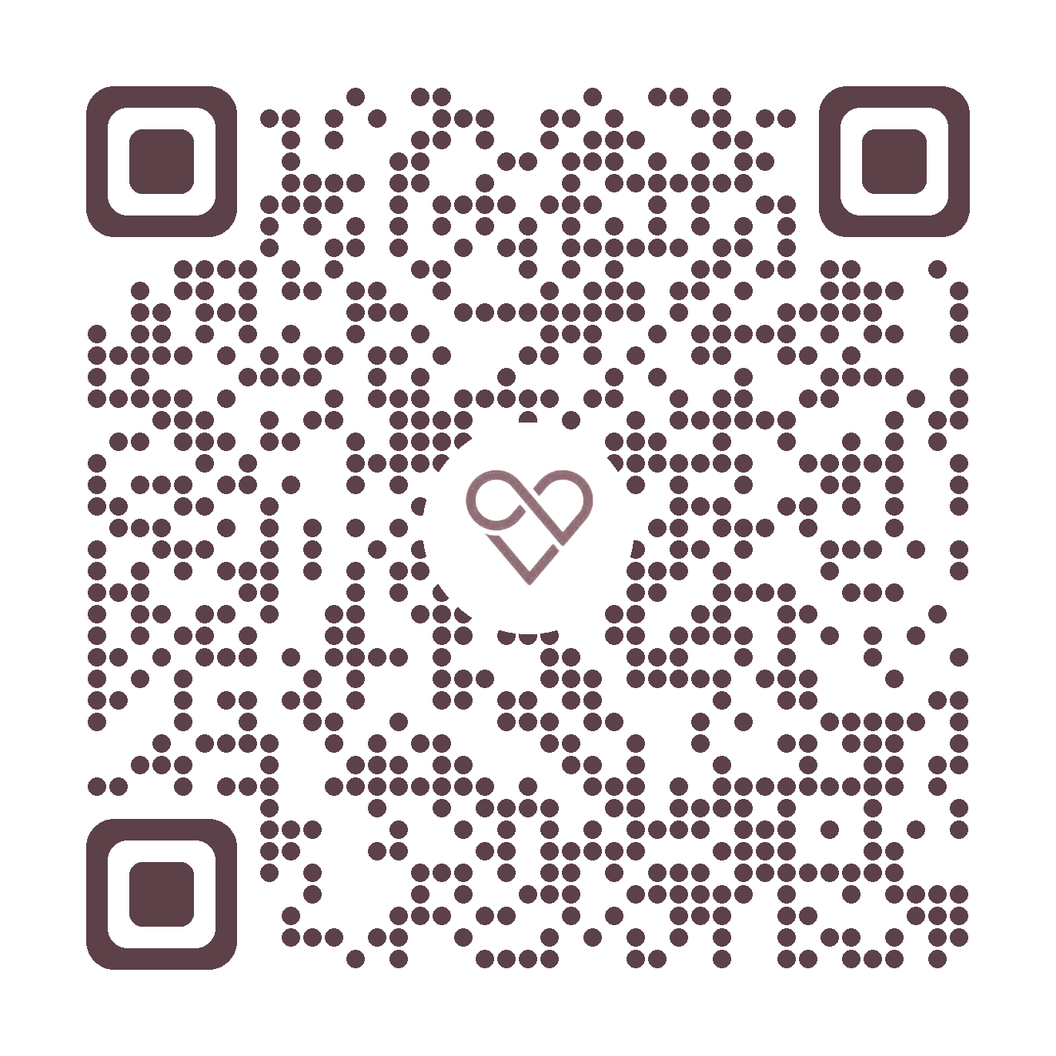
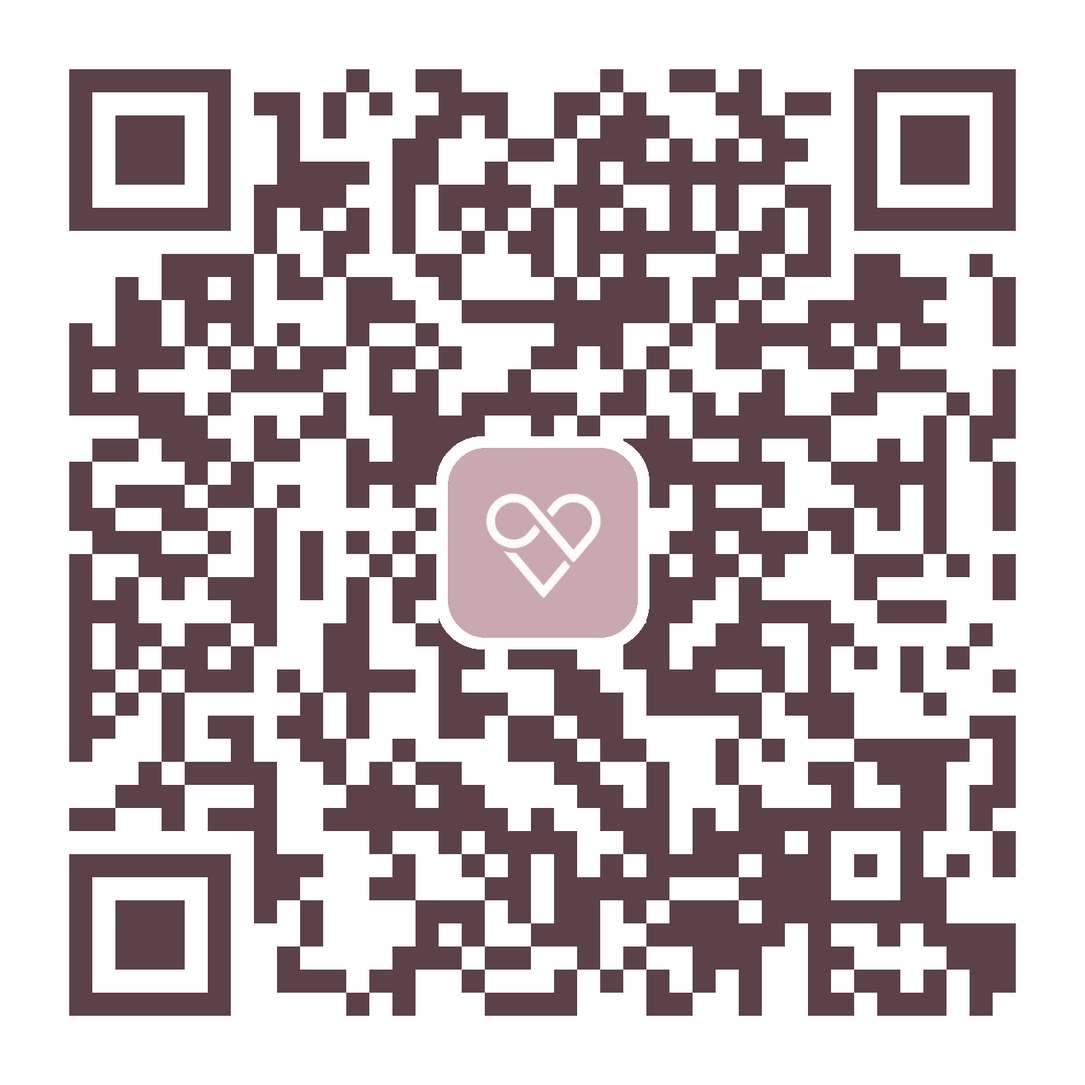
Extra chairs pending hotel, TBC duplicate names, open ceremony seating, map pin, Mahassajan QR card
Claude-Session: https://claude.ai/code/session_01Ktinj4NGZiYfzhAotGD2iB

diff --git a/data.js b/data.js
@@ -1,2 +1,2 @@
 /* ข้อมูลแขก Adriana & Non — สร้างจาก Seating Wedding 15 November 2026 2.xlsx (งานเลี้ยง) และ seat.xlsx (พิธี) */
-window.SEAT_DATA = {"tables": [{"id": "Z1-1", "zone": "1", "label": "แถว 1", "left": [1, 2, 3, 4, 5, 6, 7, 8, 9, 10, 11, 12], "right": [13, 14, 15, 16, 17, 18, 19, 20, 21, 22, 23, 24], "cap": 24}, {"id": "Z1-2", "zone": "1", "label": "แถว 2", "left": [25, 26, 27, 28, 29, 30, 31, 32, 33, 34, 35, 36, 37, 38, 39], "right": [40, 41, 42, 43, 44, 45, 46, 47, 48, 49, 50, 51, 52, 53, 54], "cap": 30}, {"id": "Z1-3", "zone": "1", "label": "แถว 3", "left": [55, 56, 57, 58, 59, 60, 61, 62, 63, 64, 65, 66, 67, 68, 69, 70, 71, 72], "right": [73, 74, 75, 76, 77, 78, 79, 80, 81, 82, 83, 84, 85, 86, 87, 88, 89, 90], "cap": 36}, {"id": "Z2-A", "zone": "2", "label": "โต๊ะที่นั่ง 109–120", "left": [115, 116, 117, 118, 119, 120], "right": [109, 110, 111, 112, 113, 114], "cap": 12}, {"id": "Z2-B", "zone": "2", "label": "โต๊ะที่นั่ง 103–108", "left": [106, 107, 108], "right": [103, 104, 105], "cap": 6}, {"id": "Z2-C", "zone": "2", "label": "โต๊ะที่นั่ง 97–102", "left": [100, 101, 102], "right": [97, 98, 99], "cap": 6}, {"id": "Z2-D", "zone": "2", "label": "โต๊ะที่นั่ง 91–96", "left": [94, 95, 96], "right": [91, 92, 93], "cap": 6}, {"id": "Z3-A", "zone": "3", "label": "โต๊ะที่นั่ง 121–126", "left": [121, 122, 123], "right": [124, 125, 126], "cap": 6}, {"id": "Z3-B", "zone": "3", "label": "โต๊ะที่นั่ง 127–138", "left": [127, 128, 129, 130, 131, 132], "right": [133, 134, 135, 136, 137, 138], "cap": 12}, {"id": "Z3-C", "zone": "3", "label": "โต๊ะที่นั่ง 139–150", "left": [139, 140, 141, 142, 143, 144], "right": [145, 146, 147, 148, 149, 150], "cap": 12}, {"id": "Z3-D", "zone": "3", "label": "โต๊ะที่นั่ง 151–156", "left": [151, 152, 153], "right": [154, 155, 156], "cap": 6}], "guests": [{"name": "Roberto Echevarria", "table": "Z1-1", "seats": [1], "alias": [], "cer": "L06"}, {"name": "Mayra Agosto", "table": "Z1-1", "seats": [2], "alias": [], "cer": "L05"}, {"name": "Genesis Rosa", "table": "Z1-1", "seats": [3], "alias": [], "cer": "L12"}, {"name": "Elia Collazos", "table": "Z1-1", "seats": [4], "alias": [], "cer": "L08"}, {"name": "Aylin Imasuen", "table": "Z1-1", "seats": [5], "alias": [], "cer": "L07"}, {"name": "Kirani Aziza", "table": "Z1-1", "seats": [6], "alias": ["Kirani"], "cer": "L15"}, {"name": "David Phan", "table": "Z1-1", "seats": [7], "alias": [], "cer": "L09"}, {"name": "Gabriele Urbaite", "table": "Z1-1", "seats": [8], "alias": ["Gabriele"], "cer": "L18"}, {"name": "Edgaras Peciulevicius", "table": "Z1-1", "seats": [9], "alias": ["Edgaras"], "cer": "L17"}, {"name": "ฮีล", "table": "Z1-1", "seats": [10], "alias": [], "cer": null}, {"name": "มิ้น", "table": "Z1-1", "seats": [11], "alias": [], "cer": null}, {"name": "กิ้ว", "table": "Z1-1", "seats": [12], "alias": [], "cer": null}, {"name": "Alejandro Echevarria", "table": "Z1-1", "seats": [13], "alias": ["Alejandro"], "cer": "L04"}, {"name": "Cindy", "table": "Z1-1", "seats": [14], "alias": [], "cer": "L03"}, {"name": "Jessica Telemaco", "table": "Z1-1", "seats": [15], "alias": [], "cer": "L01"}, {"name": "Celina Telemaco", "table": "Z1-1", "seats": [16], "alias": [], "cer": "L02"}, {"name": "Sendi Limon-Davalos", "table": "Z1-1", "seats": [17], "alias": ["Sendi"], "cer": "L16"}, {"name": "Monica Ortega", "table": "Z1-1", "seats": [18], "alias": [], "cer": "L10"}, {"name": "Leighanne Katz", "table": "Z1-1", "seats": [19], "alias": [], "cer": "L11"}, {"name": "นัท", "table": "Z1-1", "seats": [20], "alias": [], "cer": null}, {"name": "แฟนนัท", "table": "Z1-1", "seats": [21], "alias": [], "cer": null}, {"name": "ฟ้า", "table": "Z1-1", "seats": [22], "alias": [], "cer": null}, {"name": "เตย", "table": "Z1-1", "seats": [23], "alias": [], "cer": null}, {"name": "พี่นัท (เตย)", "table": "Z1-1", "seats": [24], "alias": [], "cer": null}, {"name": "พ่อนิพัฒน์", "table": "Z1-2", "seats": [25], "alias": ["นิพัฒน์ ยังรอด"], "cer": "R01"}, {"name": "แม่ปนัดดา", "table": "Z1-2", "seats": [26], "alias": ["ปนัดดา ยังรอด"], "cer": "R02"}, {"name": "น้านุช", "table": "Z1-2", "seats": [27], "alias": [], "cer": "R13"}, {"name": "น้าลื่น", "table": "Z1-2", "seats": [28], "alias": [], "cer": "R14"}, {"name": "กร", "table": "Z1-2", "seats": [29], "alias": [], "cer": "R17"}, {"name": "ของขวัญ", "table": "Z1-2", "seats": [30], "alias": [], "cer": "R18"}, {"name": "ก้อง", "table": "Z1-2", "seats": [31], "alias": [], "cer": "R19"}, {"name": "มุก", "table": "Z1-2", "seats": [32], "alias": [], "cer": "R20"}, {"name": "กี้", "table": "Z1-2", "seats": [33], "alias": [], "cer": "L24"}, {"name": "บุง", "table": "Z1-2", "seats": [34], "alias": [], "cer": null}, {"name": "ท๊อป", "table": "Z1-2", "seats": [35], "alias": [], "cer": null}, {"name": "หน่า", "table": "Z1-2", "seats": [36], "alias": [], "cer": null}, {"name": "นิ้ง", "table": "Z1-2", "seats": [37], "alias": [], "cer": null}, {"name": "ไช้", "table": "Z1-2", "seats": [38], "alias": [], "cer": null}, {"name": "ปัน", "table": "Z1-2", "seats": [39], "alias": [], "cer": null}, {"name": "พี่เม็ดนุ่น", "table": "Z1-2", "seats": [40], "alias": ["พี่นุ่น"], "cer": "R03"}, {"name": "พี่เล้ง", "table": "Z1-2", "seats": [41], "alias": [], "cer": "R05"}, {"name": "นลิล", "table": "Z1-2", "seats": [42], "alias": [], "cer": "R04"}, {"name": "เนล่า", "table": "Z1-2", "seats": [43], "alias": [], "cer": null}, {"name": "Pavida Wanna", "table": "Z1-2", "seats": [44], "alias": [], "cer": null}, {"name": "โด่ง", "table": "Z1-2", "seats": [45], "alias": [], "cer": "R16"}, {"name": "อารุ่น", "table": "Z1-2", "seats": [46], "alias": [], "cer": null}, {"name": "ปุ้น", "table": "Z1-2", "seats": [47], "alias": [], "cer": null}, {"name": "ปู่รงค์", "table": "Z1-2", "seats": [48], "alias": [], "cer": null}, {"name": "ย่าเล็ก", "table": "Z1-2", "seats": [49], "alias": [], "cer": null}, {"name": "นัท", "table": "Z1-2", "seats": [50], "alias": [], "cer": null}, {"name": "พี่ไบรท์", "table": "Z1-2", "seats": [51], "alias": [], "cer": null}, {"name": "หน่อย", "table": "Z1-2", "seats": [52], "alias": [], "cer": null}, {"name": "ออสติน", "table": "Z1-2", "seats": [53], "alias": [], "cer": null}, {"name": "นภัส", "table": "Z1-2", "seats": [54], "alias": [], "cer": "R07"}, {"name": "ต้น", "table": "Z1-3", "seats": [55], "alias": [], "cer": null}, {"name": "มะปราง", "table": "Z1-3", "seats": [56], "alias": [], "cer": null}, {"name": "เป้อ", "table": "Z1-3", "seats": [57], "alias": [], "cer": null}, {"name": "เก่ง", "table": "Z1-3", "seats": [58], "alias": [], "cer": null}, {"name": "แฟนเก่ง", "table": "Z1-3", "seats": [59], "alias": [], "cer": null}, {"name": "นู", "table": "Z1-3", "seats": [60], "alias": [], "cer": "R08"}, {"name": "กิฟ", "table": "Z1-3", "seats": [61], "alias": [], "cer": "R11"}, {"name": "เจเจ", "table": "Z1-3", "seats": [62], "alias": [], "cer": null}, {"name": "แฟนเจเจ", "table": "Z1-3", "seats": [63], "alias": [], "cer": null}, {"name": "พี", "table": "Z1-3", "seats": [64], "alias": [], "cer": null}, {"name": "โอ๋", "table": "Z1-3", "seats": [65], "alias": [], "cer": null}, {"name": "ไมค์", "table": "Z1-3", "seats": [66], "alias": [], "cer": null}, {"name": "ไอซ์ (ไมค์)", "table": "Z1-3", "seats": [67], "alias": [], "cer": null}, {"name": "พี่กุ๊ก (พี่มิก)", "table": "Z1-3", "seats": [68], "alias": [], "cer": null}, {"name": "พี่มิก", "table": "Z1-3", "seats": [69], "alias": [], "cer": null}, {"name": "โอ็ต", "table": "Z1-3", "seats": [70], "alias": [], "cer": null}, {"name": "เก๋ (โอ็ต)", "table": "Z1-3", "seats": [71], "alias": [], "cer": null}, {"name": "Aung Thet", "table": "Z1-3", "seats": [72], "alias": ["Aung"], "cer": "L21"}, {"name": "ภูมิ", "table": "Z1-3", "seats": [73], "alias": [], "cer": "R09"}, {"name": "เกต", "table": "Z1-3", "seats": [74], "alias": [], "cer": "R12"}, {"name": "พี่บูม", "table": "Z1-3", "seats": [75], "alias": [], "cer": null}, {"name": "พี่แบงค์", "table": "Z1-3", "seats": [76], "alias": [], "cer": null}, {"name": "โอ็ต", "table": "Z1-3", "seats": [77], "alias": [], "cer": null}, {"name": "พี่กัน", "table": "Z1-3", "seats": [78], "alias": [], "cer": null}, {"name": "พี่บูม (แพร)", "table": "Z1-3", "seats": [79], "alias": [], "cer": null}, {"name": "แพร", "table": "Z1-3", "seats": [80], "alias": [], "cer": null}, {"name": "พี่กิฟ", "table": "Z1-3", "seats": [81], "alias": [], "cer": null}, {"name": "ว่าน", "table": "Z1-3", "seats": [82], "alias": [], "cer": null}, {"name": "กรร", "table": "Z1-3", "seats": [83], "alias": [], "cer": null}, {"name": "พีท", "table": "Z1-3", "seats": [84], "alias": [], "cer": null}, {"name": "พี่แอน", "table": "Z1-3", "seats": [85], "alias": [], "cer": null}, {"name": "พี่มิ้ว", "table": "Z1-3", "seats": [86], "alias": [], "cer": null}, {"name": "แฟนพี่เมย์", "table": "Z1-3", "seats": [87], "alias": [], "cer": null}, {"name": "พี่เมย์", "table": "Z1-3", "seats": [88], "alias": [], "cer": null}, {"name": "Jack Huang", "table": "Z1-3", "seats": [89], "alias": ["jack Huang"], "cer": "L23"}, {"name": "Jessica Huang", "table": "Z1-3", "seats": [90], "alias": [], "cer": "L22"}, {"name": "ลุงเกรียง", "table": "Z2-A", "seats": [115], "alias": [], "cer": null}, {"name": "ป้าอ้อย", "table": "Z2-A", "seats": [116], "alias": [], "cer": null}, {"name": "อาร์ม", "table": "Z2-A", "seats": [117], "alias": [], "cer": null}, {"name": "น้าอ๋อย", "table": "Z2-A", "seats": [118], "alias": [], "cer": null}, {"name": "น้าปู้", "table": "Z2-A", "seats": [119], "alias": [], "cer": null}, {"name": "ป้าอ้วน", "table": "Z2-A", "seats": [109], "alias": [], "cer": null}, {"name": "น้าฑล", "table": "Z2-A", "seats": [110], "alias": [], "cer": null}, {"name": "พี่วัฒน์", "table": "Z2-A", "seats": [111], "alias": [], "cer": null}, {"name": "แม่ปาล์ม", "table": "Z2-A", "seats": [112], "alias": [], "cer": null}, {"name": "ปาล์ม", "table": "Z2-A", "seats": [113], "alias": [], "cer": null}, {"name": "เมย์", "table": "Z2-A", "seats": [114], "alias": [], "cer": null}, {"name": "บ้านกันตจินดา", "table": "Z2-B", "seats": [103, 104, 106, 107, 108], "alias": [], "cer": null}, {"name": "น้าปา", "table": "Z2-C", "seats": [100], "alias": [], "cer": null}, {"name": "กัสจัง", "table": "Z2-C", "seats": [101], "alias": [], "cer": null}, {"name": "น้าเอ๋", "table": "Z2-C", "seats": [102], "alias": [], "cer": null}, {"name": "น้าอุ๊", "table": "Z2-C", "seats": [97], "alias": [], "cer": "R21"}, {"name": "โหย๋", "table": "Z2-C", "seats": [98], "alias": ["โย๋"], "cer": "R22"}, {"name": "อ๋อง", "table": "Z2-C", "seats": [99], "alias": [], "cer": "R23"}, {"name": "เอิท", "table": "Z2-D", "seats": [94], "alias": [], "cer": null}, {"name": "เจนนี่", "table": "Z2-D", "seats": [95], "alias": [], "cer": null}, {"name": "ใบตอง", "table": "Z2-D", "seats": [96], "alias": [], "cer": null}, {"name": "ฝน", "table": "Z2-D", "seats": [91], "alias": [], "cer": null}, {"name": "สามีฝน", "table": "Z2-D", "seats": [92], "alias": [], "cer": null}, {"name": "นิส", "table": "Z2-D", "seats": [93], "alias": [], "cer": null}, {"name": "น้าเก๋", "table": "Z3-A", "seats": [121], "alias": [], "cer": null}, {"name": "มิฐฐา", "table": "Z3-A", "seats": [122], "alias": [], "cer": null}, {"name": "กล้า", "table": "Z3-A", "seats": [123], "alias": [], "cer": null}, {"name": "ยายน้อย", "table": "Z3-A", "seats": [124], "alias": [], "cer": null}, {"name": "ยายแอร์", "table": "Z3-A", "seats": [125], "alias": [], "cer": null}, {"name": "อิ้ง", "table": "Z3-A", "seats": [126], "alias": [], "cer": null}, {"name": "บ้านอีน้อง", "table": "Z3-B", "seats": [127, 128, 129, 130, 131], "alias": [], "cer": null}, {"name": "Kevin", "table": "Z3-B", "seats": [132], "alias": [], "cer": null}, {"name": "บ้านอี้ลั้ง", "table": "Z3-B", "seats": [133, 134, 135], "alias": [], "cer": null}, {"name": "น้าวุฒิ", "table": "Z3-B", "seats": [136], "alias": [], "cer": null}, {"name": "น้าปอ", "table": "Z3-B", "seats": [137], "alias": [], "cer": null}, {"name": "น้าปุ๊ก", "table": "Z3-B", "seats": [138], "alias": [], "cer": null}, {"name": "น้าชาลี", "table": "Z3-C", "seats": [139], "alias": [], "cer": null}, {"name": "น้าผึ้ง", "table": "Z3-C", "seats": [140], "alias": [], "cer": null}, {"name": "น้าโอ้ต", "table": "Z3-C", "seats": [141], "alias": [], "cer": null}, {"name": "พี่กาญ", "table": "Z3-C", "seats": [142], "alias": [], "cer": null}, {"name": "บ้านเชื้อสำราญ", "table": "Z3-C", "seats": [143, 144, 145, 146, 147, 148, 149, 150], "alias": [], "cer": null}, {"name": "ตาปื๊ด", "table": "Z3-D", "seats": [151], "alias": [], "cer": null}, {"name": "ตาแป๊ด", "table": "Z3-D", "seats": [152], "alias": [], "cer": null}, {"name": "ยายแป๋ว", "table": "Z3-D", "seats": [153], "alias": [], "cer": null}, {"name": "ตาป้อม", "table": "Z3-D", "seats": [154], "alias": [], "cer": null}, {"name": "น้าหนึ่ง", "table": "Z3-D", "seats": [155], "alias": [], "cer": null}, {"name": "น้าเหมียว", "table": "Z3-D", "seats": [156], "alias": [], "cer": null}, {"name": "นนท์หยอย", "table": "Z1-2", "seats": [], "alias": [], "cer": null}, {"name": "ตุ๊กตา", "table": "Z1-2", "seats": [], "alias": [], "cer": "R10"}, {"name": "ออม", "table": "Z2-C", "seats": [], "alias": [], "cer": null}, {"name": "ปีเตอร์", "table": "Z2-D", "seats": [], "alias": [], "cer": null}, {"name": "น้ำ", "table": null, "seats": [], "alias": [], "cer": "R15"}], "ceremony": {"L01": true, "L02": true, "L03": true, "L04": true, "L05": true, "L06": true, "R01": true, "R02": true, "R03": true, "R04": true, "R05": true, "R06": false, "L07": true, "L08": true, "L09": true, "L10": true, "L11": true, "L12": true, "R07": true, "R08": true, "R09": true, "R10": true, "R11": true, "R12": true, "L13": false, "L14": false, "L15": true, "L16": true, "L17": true, "L18": true, "R13": true, "R14": true, "R15": true, "R16": true, "R17": true, "R18": true, "L19": false, "L20": false, "L21": true, "L22": true, "L23": true, "L24": true, "R19": true, "R20": true, "R21": true, "R22": true, "R23": true, "R24": false}};
+window.SEAT_DATA = {"tables": [{"id": "Z1-1", "zone": "1", "label": "แถว 1", "left": [1, 2, 3, 4, 5, 6, 7, 8, 9, 10, 11, 12], "right": [13, 14, 15, 16, 17, 18, 19, 20, 21, 22, 23, 24], "cap": 24}, {"id": "Z1-2", "zone": "1", "label": "แถว 2", "left": [25, 26, 27, 28, 29, 30, 31, 32, 33, 34, 35, 36, 37, 38, 39], "right": [40, 41, 42, 43, 44, 45, 46, 47, 48, 49, 50, 51, 52, 53, 54], "cap": 30}, {"id": "Z1-3", "zone": "1", "label": "แถว 3", "left": [55, 56, 57, 58, 59, 60, 61, 62, 63, 64, 65, 66, 67, 68, 69, 70, 71, 72], "right": [73, 74, 75, 76, 77, 78, 79, 80, 81, 82, 83, 84, 85, 86, 87, 88, 89, 90], "cap": 36}, {"id": "Z2-A", "zone": "2", "label": "โต๊ะที่นั่ง 109–120", "left": [115, 116, 117, 118, 119, 120], "right": [109, 110, 111, 112, 113, 114], "cap": 12}, {"id": "Z2-B", "zone": "2", "label": "โต๊ะที่นั่ง 103–108", "left": [106, 107, 108], "right": [103, 104, 105], "cap": 6}, {"id": "Z2-C", "zone": "2", "label": "โต๊ะที่นั่ง 97–102", "left": [100, 101, 102], "right": [97, 98, 99], "cap": 6}, {"id": "Z2-D", "zone": "2", "label": "โต๊ะที่นั่ง 91–96", "left": [94, 95, 96], "right": [91, 92, 93], "cap": 6}, {"id": "Z3-A", "zone": "3", "label": "โต๊ะที่นั่ง 121–126", "left": [121, 122, 123], "right": [124, 125, 126], "cap": 6}, {"id": "Z3-B", "zone": "3", "label": "โต๊ะที่นั่ง 127–138", "left": [127, 128, 129, 130, 131, 132], "right": [133, 134, 135, 136, 137, 138], "cap": 12}, {"id": "Z3-C", "zone": "3", "label": "โต๊ะที่นั่ง 139–150", "left": [139, 140, 141, 142, 143, 144], "right": [145, 146, 147, 148, 149, 150], "cap": 12}, {"id": "Z3-D", "zone": "3", "label": "โต๊ะที่นั่ง 151–156", "left": [151, 152, 153], "right": [154, 155, 156], "cap": 6}], "guests": [{"name": "Roberto Echevarria", "table": "Z1-1", "seats": [1], "alias": [], "cer": "L06"}, {"name": "Mayra Agosto", "table": "Z1-1", "seats": [2], "alias": [], "cer": "L05"}, {"name": "Genesis Rosa", "table": "Z1-1", "seats": [3], "alias": [], "cer": "L12"}, {"name": "Elia Collazos", "table": "Z1-1", "seats": [4], "alias": [], "cer": "L08"}, {"name": "Aylin Imasuen", "table": "Z1-1", "seats": [5], "alias": [], "cer": "L07"}, {"name": "Kirani Aziza", "table": "Z1-1", "seats": [6], "alias": ["Kirani"], "cer": "L15"}, {"name": "David Phan", "table": "Z1-1", "seats": [7], "alias": [], "cer": "L09"}, {"name": "Gabriele Urbaite", "table": "Z1-1", "seats": [8], "alias": ["Gabriele"], "cer": "L18"}, {"name": "Edgaras Peciulevicius", "table": "Z1-1", "seats": [9], "alias": ["Edgaras"], "cer": "L17"}, {"name": "ฮีล", "table": "Z1-1", "seats": [10], "alias": [], "cer": null}, {"name": "มิ้น", "table": "Z1-1", "seats": [11], "alias": [], "cer": null}, {"name": "กิ้ว", "table": "Z1-1", "seats": [12], "alias": [], "cer": null}, {"name": "Alejandro Echevarria", "table": "Z1-1", "seats": [13], "alias": ["Alejandro"], "cer": "L04"}, {"name": "Cindy", "table": "Z1-1", "seats": [14], "alias": [], "cer": "L03"}, {"name": "Jessica Telemaco", "table": "Z1-1", "seats": [15], "alias": [], "cer": "L01"}, {"name": "Celina Telemaco", "table": "Z1-1", "seats": [16], "alias": [], "cer": "L02"}, {"name": "Sendi Limon-Davalos", "table": "Z1-1", "seats": [17], "alias": ["Sendi"], "cer": "L16"}, {"name": "Monica Ortega", "table": "Z1-1", "seats": [18], "alias": [], "cer": "L10"}, {"name": "Leighanne Katz", "table": "Z1-1", "seats": [19], "alias": [], "cer": "L11"}, {"name": "นัท", "table": "Z1-1", "seats": [20], "alias": [], "cer": null, "tbc": true}, {"name": "แฟนนัท", "table": "Z1-1", "seats": [21], "alias": [], "cer": null}, {"name": "ฟ้า", "table": "Z1-1", "seats": [22], "alias": [], "cer": null}, {"name": "เตย", "table": "Z1-1", "seats": [23], "alias": [], "cer": null}, {"name": "พี่นัท (เตย)", "table": "Z1-1", "seats": [24], "alias": [], "cer": null}, {"name": "พ่อนิพัฒน์", "table": "Z1-2", "seats": [25], "alias": ["นิพัฒน์ ยังรอด"], "cer": "R01"}, {"name": "แม่ปนัดดา", "table": "Z1-2", "seats": [26], "alias": ["ปนัดดา ยังรอด"], "cer": "R02"}, {"name": "น้านุช", "table": "Z1-2", "seats": [27], "alias": [], "cer": "R13"}, {"name": "น้าลื่น", "table": "Z1-2", "seats": [28], "alias": [], "cer": "R14"}, {"name": "กร", "table": "Z1-2", "seats": [29], "alias": [], "cer": "R17"}, {"name": "ของขวัญ", "table": "Z1-2", "seats": [30], "alias": [], "cer": "R18"}, {"name": "ก้อง", "table": "Z1-2", "seats": [31], "alias": [], "cer": "R19"}, {"name": "มุก", "table": "Z1-2", "seats": [32], "alias": [], "cer": "R20"}, {"name": "กี้", "table": "Z1-2", "seats": [33], "alias": [], "cer": "L24"}, {"name": "บุง", "table": "Z1-2", "seats": [34], "alias": [], "cer": null}, {"name": "ท๊อป", "table": "Z1-2", "seats": [35], "alias": [], "cer": null}, {"name": "หน่า", "table": "Z1-2", "seats": [36], "alias": [], "cer": null}, {"name": "นิ้ง", "table": "Z1-2", "seats": [37], "alias": [], "cer": null}, {"name": "ไช้", "table": "Z1-2", "seats": [38], "alias": [], "cer": null}, {"name": "ปัน", "table": "Z1-2", "seats": [39], "alias": [], "cer": null}, {"name": "พี่เม็ดนุ่น", "table": "Z1-2", "seats": [40], "alias": ["พี่นุ่น"], "cer": "R03"}, {"name": "พี่เล้ง", "table": "Z1-2", "seats": [41], "alias": [], "cer": "R05"}, {"name": "นลิล", "table": "Z1-2", "seats": [42], "alias": [], "cer": "R04"}, {"name": "เนล่า", "table": "Z1-2", "seats": [43], "alias": [], "cer": null}, {"name": "Pavida Wanna", "table": "Z1-2", "seats": [44], "alias": [], "cer": null}, {"name": "โด่ง", "table": "Z1-2", "seats": [45], "alias": [], "cer": "R16"}, {"name": "อารุ่น", "table": "Z1-2", "seats": [46], "alias": [], "cer": null}, {"name": "ปุ้น", "table": "Z1-2", "seats": [47], "alias": [], "cer": null}, {"name": "ปู่รงค์", "table": "Z1-2", "seats": [48], "alias": [], "cer": null}, {"name": "ย่าเล็ก", "table": "Z1-2", "seats": [49], "alias": [], "cer": null}, {"name": "นัท", "table": "Z1-2", "seats": [50], "alias": [], "cer": null, "tbc": true}, {"name": "พี่ไบรท์", "table": "Z1-2", "seats": [51], "alias": [], "cer": null}, {"name": "หน่อย", "table": "Z1-2", "seats": [52], "alias": [], "cer": null}, {"name": "ออสติน", "table": "Z1-2", "seats": [53], "alias": [], "cer": null}, {"name": "นภัส", "table": "Z1-2", "seats": [54], "alias": [], "cer": "R07"}, {"name": "ต้น", "table": "Z1-3", "seats": [55], "alias": [], "cer": null}, {"name": "มะปราง", "table": "Z1-3", "seats": [56], "alias": [], "cer": null}, {"name": "เป้อ", "table": "Z1-3", "seats": [57], "alias": [], "cer": null}, {"name": "เก่ง", "table": "Z1-3", "seats": [58], "alias": [], "cer": null}, {"name": "แฟนเก่ง", "table": "Z1-3", "seats": [59], "alias": [], "cer": null}, {"name": "นู", "table": "Z1-3", "seats": [60], "alias": [], "cer": "R08"}, {"name": "กิฟ", "table": "Z1-3", "seats": [61], "alias": [], "cer": "R11"}, {"name": "เจเจ", "table": "Z1-3", "seats": [62], "alias": [], "cer": null}, {"name": "แฟนเจเจ", "table": "Z1-3", "seats": [63], "alias": [], "cer": null}, {"name": "พี", "table": "Z1-3", "seats": [64], "alias": [], "cer": null}, {"name": "โอ๋", "table": "Z1-3", "seats": [65], "alias": [], "cer": null}, {"name": "ไมค์", "table": "Z1-3", "seats": [66], "alias": [], "cer": null}, {"name": "ไอซ์ (ไมค์)", "table": "Z1-3", "seats": [67], "alias": [], "cer": null}, {"name": "พี่กุ๊ก (พี่มิก)", "table": "Z1-3", "seats": [68], "alias": [], "cer": null}, {"name": "พี่มิก", "table": "Z1-3", "seats": [69], "alias": [], "cer": null}, {"name": "โอ็ต", "table": "Z1-3", "seats": [70], "alias": [], "cer": null, "tbc": true}, {"name": "เก๋ (โอ็ต)", "table": "Z1-3", "seats": [71], "alias": [], "cer": null}, {"name": "Aung Thet", "table": "Z1-3", "seats": [72], "alias": ["Aung"], "cer": "L21"}, {"name": "ภูมิ", "table": "Z1-3", "seats": [73], "alias": [], "cer": "R09"}, {"name": "เกต", "table": "Z1-3", "seats": [74], "alias": [], "cer": "R12"}, {"name": "พี่บูม", "table": "Z1-3", "seats": [75], "alias": [], "cer": null}, {"name": "พี่แบงค์", "table": "Z1-3", "seats": [76], "alias": [], "cer": null}, {"name": "โอ็ต", "table": "Z1-3", "seats": [77], "alias": [], "cer": null, "tbc": true}, {"name": "พี่กัน", "table": "Z1-3", "seats": [78], "alias": [], "cer": null}, {"name": "พี่บูม (แพร)", "table": "Z1-3", "seats": [79], "alias": [], "cer": null}, {"name": "แพร", "table": "Z1-3", "seats": [80], "alias": [], "cer": null}, {"name": "พี่กิฟ", "table": "Z1-3", "seats": [81], "alias": [], "cer": null}, {"name": "ว่าน", "table": "Z1-3", "seats": [82], "alias": [], "cer": null}, {"name": "กรร", "table": "Z1-3", "seats": [83], "alias": [], "cer": null}, {"name": "พีท", "table": "Z1-3", "seats": [84], "alias": [], "cer": null}, {"name": "พี่แอน", "table": "Z1-3", "seats": [85], "alias": [], "cer": null}, {"name": "พี่มิ้ว", "table": "Z1-3", "seats": [86], "alias": [], "cer": null}, {"name": "แฟนพี่เมย์", "table": "Z1-3", "seats": [87], "alias": [], "cer": null}, {"name": "พี่เมย์", "table": "Z1-3", "seats": [88], "alias": [], "cer": null}, {"name": "Jack Huang", "table": "Z1-3", "seats": [89], "alias": ["jack Huang"], "cer": "L23"}, {"name": "Jessica Huang", "table": "Z1-3", "seats": [90], "alias": [], "cer": "L22"}, {"name": "ลุงเกรียง", "table": "Z2-A", "seats": [115], "alias": [], "cer": null}, {"name": "ป้าอ้อย", "table": "Z2-A", "seats": [116], "alias": [], "cer": null}, {"name": "อาร์ม", "table": "Z2-A", "seats": [117], "alias": [], "cer": null}, {"name": "น้าอ๋อย", "table": "Z2-A", "seats": [118], "alias": [], "cer": null}, {"name": "น้าปู้", "table": "Z2-A", "seats": [119], "alias": [], "cer": null}, {"name": "ป้าอ้วน", "table": "Z2-A", "seats": [109], "alias": [], "cer": null}, {"name": "น้าฑล", "table": "Z2-A", "seats": [110], "alias": [], "cer": null}, {"name": "พี่วัฒน์", "table": "Z2-A", "seats": [111], "alias": [], "cer": null}, {"name": "แม่ปาล์ม", "table": "Z2-A", "seats": [112], "alias": [], "cer": null}, {"name": "ปาล์ม", "table": "Z2-A", "seats": [113], "alias": [], "cer": null}, {"name": "เมย์", "table": "Z2-A", "seats": [114], "alias": [], "cer": null}, {"name": "บ้านกันตจินดา", "table": "Z2-B", "seats": [103, 104, 106, 107, 108], "alias": [], "cer": null}, {"name": "น้าปา", "table": "Z2-C", "seats": [100], "alias": [], "cer": null}, {"name": "กัสจัง", "table": "Z2-C", "seats": [101], "alias": [], "cer": null}, {"name": "น้าเอ๋", "table": "Z2-C", "seats": [102], "alias": [], "cer": null}, {"name": "น้าอุ๊", "table": "Z2-C", "seats": [97], "alias": [], "cer": "R21"}, {"name": "โหย๋", "table": "Z2-C", "seats": [98], "alias": ["โย๋"], "cer": "R22"}, {"name": "อ๋อง", "table": "Z2-C", "seats": [99], "alias": [], "cer": "R23"}, {"name": "เอิท", "table": "Z2-D", "seats": [94], "alias": [], "cer": null}, {"name": "เจนนี่", "table": "Z2-D", "seats": [95], "alias": [], "cer": null}, {"name": "ใบตอง", "table": "Z2-D", "seats": [96], "alias": [], "cer": null}, {"name": "ฝน", "table": "Z2-D", "seats": [91], "alias": [], "cer": null}, {"name": "สามีฝน", "table": "Z2-D", "seats": [92], "alias": [], "cer": null}, {"name": "นิส", "table": "Z2-D", "seats": [93], "alias": [], "cer": null}, {"name": "น้าเก๋", "table": "Z3-A", "seats": [121], "alias": [], "cer": null}, {"name": "มิฐฐา", "table": "Z3-A", "seats": [122], "alias": [], "cer": null}, {"name": "กล้า", "table": "Z3-A", "seats": [123], "alias": [], "cer": null}, {"name": "ยายน้อย", "table": "Z3-A", "seats": [124], "alias": [], "cer": null}, {"name": "ยายแอร์", "table": "Z3-A", "seats": [125], "alias": [], "cer": null}, {"name": "อิ้ง", "table": "Z3-A", "seats": [126], "alias": [], "cer": null}, {"name": "บ้านอีน้อง", "table": "Z3-B", "seats": [127, 128, 129, 130, 131], "alias": [], "cer": null}, {"name": "Kevin", "table": "Z3-B", "seats": [132], "alias": [], "cer": null}, {"name": "บ้านอี้ลั้ง", "table": "Z3-B", "seats": [133, 134, 135], "alias": [], "cer": null}, {"name": "น้าวุฒิ", "table": "Z3-B", "seats": [136], "alias": [], "cer": null}, {"name": "น้าปอ", "table": "Z3-B", "seats": [137], "alias": [], "cer": null}, {"name": "น้าปุ๊ก", "table": "Z3-B", "seats": [138], "alias": [], "cer": null}, {"name": "น้าชาลี", "table": "Z3-C", "seats": [139], "alias": [], "cer": null}, {"name": "น้าผึ้ง", "table": "Z3-C", "seats": [140], "alias": [], "cer": null}, {"name": "น้าโอ้ต", "table": "Z3-C", "seats": [141], "alias": [], "cer": null}, {"name": "พี่กาญ", "table": "Z3-C", "seats": [142], "alias": [], "cer": null}, {"name": "บ้านเชื้อสำราญ", "table": "Z3-C", "seats": [143, 144, 145, 146, 147, 148, 149, 150], "alias": [], "cer": null}, {"name": "ตาปื๊ด", "table": "Z3-D", "seats": [151], "alias": [], "cer": null}, {"name": "ตาแป๊ด", "table": "Z3-D", "seats": [152], "alias": [], "cer": null}, {"name": "ยายแป๋ว", "table": "Z3-D", "seats": [153], "alias": [], "cer": null}, {"name": "ตาป้อม", "table": "Z3-D", "seats": [154], "alias": [], "cer": null}, {"name": "น้าหนึ่ง", "table": "Z3-D", "seats": [155], "alias": [], "cer": null}, {"name": "น้าเหมียว", "table": "Z3-D", "seats": [156], "alias": [], "cer": null}, {"name": "นนท์หยอย", "table": "Z1-2", "seats": [], "alias": [], "cer": null, "extra": "L"}, {"name": "ตุ๊กตา", "table": "Z1-2", "seats": [], "alias": [], "cer": "R10", "extra": "R"}, {"name": "ออม", "table": "Z2-C", "seats": [], "alias": [], "cer": null, "extra": "L"}, {"name": "ปีเตอร์", "table": "Z2-D", "seats": [], "alias": [], "cer": null, "extra": "L"}, {"name": "น้ำ", "table": null, "seats": [], "alias": [], "cer": "R15"}], "ceremony": {"L01": true, "L02": true, "L03": true, "L04": true, "L05": true, "L06": true, "R01": true, "R02": true, "R03": true, "R04": true, "R05": true, "R06": false, "L07": true, "L08": true, "L09": true, "L10": true, "L11": true, "L12": true, "R07": true, "R08": true, "R09": true, "R10": true, "R11": true, "R12": true, "L13": false, "L14": false, "L15": true, "L16": true, "L17": true, "L18": true, "R13": true, "R14": true, "R15": true, "R16": true, "R17": true, "R18": true, "L19": false, "L20": false, "L21": true, "L22": true, "L23": true, "L24": true, "R19": true, "R20": true, "R21": true, "R22": true, "R23": true, "R24": false}};

diff --git a/index.html b/index.html
@@ -102,6 +102,10 @@ section{padding:64px 0}
 .chip strong.th{font-family:'Prompt';font-size:21px;font-weight:400;line-height:1.1;padding-top:2px}
 .seat-desc{text-align:center;color:var(--muted);font-size:13.5px;line-height:1.55}
 .none{text-align:center;color:var(--muted);font-size:13.5px;padding:6px 4px}
+.pending{display:none;margin-top:10px;background:#FFF4EC;border:1px dashed #D9A07C;color:#9A4E27;border-radius:12px;padding:9px 12px;font-size:13px;text-align:center}
+.tbc{display:inline-block;font-size:11px;font-family:'Josefin Sans';letter-spacing:.1em;background:#FFF4EC;color:#9A4E27;border:1px solid #EBC3A8;border-radius:999px;padding:1px 8px;margin-left:6px;vertical-align:3px}
+.mates li.xtra{border:1px dashed #D9A07C;background:#FFF8F2}
+.mates li.xtra b{background:#E9B898}
 .staff-note{display:none;margin-top:12px;background:#FFF6EF;border:1px solid #F1D9C6;color:#8A4D2C;border-radius:12px;padding:10px 14px;font-size:13.5px}
 .tabs{display:flex;background:var(--blush);border-radius:999px;padding:4px;margin:14px 0 12px}
 .tabs button{flex:1;border:0;background:transparent;border-radius:999px;padding:9px 6px;font-family:'Prompt';font-size:14px;color:var(--plum);cursor:pointer;font-weight:300}
@@ -279,7 +283,7 @@ footer p{font-size:12.5px;opacity:.92;margin-top:22px;line-height:1.7}
           </div>
           <div class="seat-desc" id="c-desc"></div>
         </div>
-        <div class="none" id="cer-no">พิธีในสวน: ทีมงาน Mahassajan จะดูแลพาไปที่นั่งหน้างานค่ะ<br><small>Our team will guide you to your ceremony seat.</small></div>
+        <div class="none" id="cer-no">พิธีในสวนเป็นที่นั่งอิสระ เชิญนั่งในที่นั่งที่ว่างได้เลยค่ะ<br><small>Open seating — please take any available seat for the ceremony.</small></div>
       </div>
 
       <div class="part" id="p-rec">
@@ -290,6 +294,8 @@ footer p{font-size:12.5px;opacity:.92;margin-top:22px;line-height:1.7}
           <div class="chip a" id="r-seat-chip"><small>Seat · ที่นั่ง</small><strong id="r-seat"></strong></div>
         </div>
         <div class="seat-desc" id="r-desc"></div>
+        <div class="pending" id="r-pending">ที่นั่งเสริม · รอโรงแรมอัปเดตเลขที่นั่ง<br><small>Extra seat — the hotel will confirm your seat number.</small></div>
+        <div class="pending" id="r-tbc">ชื่อนี้มีมากกว่า 1 ท่าน · TBC รอบ่าวสาวยืนยันอีกครั้ง</div>
       </div>
       <div class="staff-note" id="r-note"></div>
 
@@ -301,7 +307,7 @@ footer p{font-size:12.5px;opacity:.92;margin-top:22px;line-height:1.7}
       <div id="tab-cer"><div class="plan-box" id="cer-box"></div>
         <div class="legend"><span><i style="background:var(--accent)"></i>ที่นั่งของคุณ · Your seat</span><span><i style="background:#EAD8DC;border-radius:2px"></i>เวทีบ่าวสาว</span></div></div>
       <div id="tab-rec"><div class="plan-box" id="rec-box"></div>
-        <div class="legend"><span><i style="background:var(--accent)"></i>ที่นั่งของคุณ · Your seat</span><span><i style="background:var(--plum)"></i>โต๊ะของคุณ · Your table</span></div></div>
+        <div class="legend"><span><i style="background:var(--accent)"></i>ที่นั่งของคุณ · Your seat</span><span><i style="background:var(--plum)"></i>โต๊ะของคุณ · Your table</span><span><i style="background:#FBEDE4;border:1px dashed #C8734A"></i>เก้าอี้เสริม (รอโรงแรม)</span></div></div>
       <div id="tab-mates"><ul class="mates" id="mates"></ul></div>
     </div>
   </div>
@@ -438,7 +444,7 @@ footer p{font-size:12.5px;opacity:.92;margin-top:22px;line-height:1.7}
       </div>
 
       <!-- VENUE -->
-      <a class="card wide" href="https://www.google.com/maps/search/?api=1&amp;query=Thames+Valley+Khao+Yai" target="_blank" rel="noopener">
+      <a class="card wide" href="https://maps.app.goo.gl/JxZa1kHpoYmCUpKm7" target="_blank" rel="noopener">
         <div class="k">Wedding venue · สถานที่จัดงาน</div>
         <h4>Thames Valley Khao Yai</h4>
         <p>โรงแรมเทมส์ วัลลีย์ เขาใหญ่ ประเทศไทย</p>
@@ -505,7 +511,7 @@ footer p{font-size:12.5px;opacity:.92;margin-top:22px;line-height:1.7}
 </script>
 
 <script>
-const {D, TBY, el, buildVenue, buildCeremony, seatPos, seatSide, seatIndex, seatList, cerPos, cerInfo, VIEW} = window.PLAN;
+const {D, TBY, el, extraPos, buildVenue, buildCeremony, seatPos, seatSide, seatIndex, seatList, cerPos, cerInfo, VIEW} = window.PLAN;
 const STAFF = location.hash==='#staff';
 if(STAFF) document.body.classList.add('staff');
 window.addEventListener('hashchange',()=>document.body.classList.toggle('staff',location.hash==='#staff'));
@@ -526,7 +532,7 @@ function seatText(seats){
 }
 function where(g){
   const t=TBY[g.table]; if(!t) return '';
-  return 'Zone '+t.zone+(t.zone==='1'?' · '+t.label:'')+(g.seats.length?' · ที่ '+seatText(g.seats):'');
+  return 'Zone '+t.zone+(t.zone==='1'?' · '+t.label:'')+(g.seats.length?' · ที่ '+seatText(g.seats):(g.extra?' · เสริม':''));
 }
 
 /* search */
@@ -545,7 +551,7 @@ q.addEventListener('input',()=>{
     const li=document.createElement('li'),b=document.createElement('button');
     const sub=g.table?(TBY[g.table].zone==='1'?'งานเลี้ยง · สนามหญ้า':'งานเลี้ยง · Zone '+TBY[g.table].zone):'พิธีแลกคำมั่นสัญญา';
     const tag=g.table?where(g).replace(' · ที่ ',' · #'):'พิธี · '+cerInfo(g.cer).sideTh+' แถว '+cerInfo(g.cer).row;
-    b.innerHTML=`<span>${esc(g.name)}<span class="sub">${esc(sub)}</span></span><span class="tag">${esc(tag)}</span>`;
+    b.innerHTML=`<span>${esc(g.name)}${g.tbc?'<span class="tbc">TBC</span>':''}<span class="sub">${esc(sub)}</span></span><span class="tag">${esc(tag)}</span>`;
     b.onclick=()=>{list.innerHTML='';show(g);};
     li.appendChild(b);list.appendChild(li);
   });
@@ -554,7 +560,7 @@ clearBtn.onclick=()=>{q.value='';q.dispatchEvent(new Event('input'));q.focus();}
 
 function show(g){
   const $=id=>document.getElementById(id);
-  $('r-name').textContent=g.name;
+  $('r-name').innerHTML=esc(g.name)+(g.tbc?'<span class="tbc">TBC</span>':'');
 
   /* ceremony */
   const meC=cerSvg.getElementById('me-cer');meC.innerHTML='';
@@ -576,9 +582,11 @@ function show(g){
     $('r-row-chip').style.display=t.zone==='1'?'':'none';
     $('r-row').textContent=t.zone==='1'?t.label.replace('แถว ',''):'';
     const st=seatText(g.seats);
-    $('r-seat-chip').style.display=st?'':'none';$('r-seat').textContent=st;$('r-seat').style.fontSize=st.length>5?'18px':'';
+    $('r-seat-chip').style.display=(st||g.extra)?'':'none';$('r-seat').textContent=st||'เสริม';$('r-seat').style.fontSize=(st.length>5||!st)?'18px':'';
+    $('r-pending').style.display=g.extra?'block':'none';$('r-tbc').style.display=g.tbc?'block':'none';
     let d;
-    if(!g.seats.length) d='ยังไม่ได้ระบุเลขที่นั่ง ทีมงานจะพาไปที่นั่งหน้างานค่ะ';
+    if(g.extra){const side=g.extra==='L'?'ซ้าย':'ขวา';d=t.zone==='1'?`โต๊ะยาว ${t.label} บนสนามหญ้า · ฝั่ง${side} (เมื่อหันหน้าเข้าเวที) เก้าอี้เสริมท้ายโต๊ะ`:`Zone ${t.zone} · ${t.label} · เก้าอี้เสริมฝั่ง${side}`;}
+    else if(!g.seats.length) d='ยังไม่ได้ระบุเลขที่นั่ง ทีมงานจะพาไปที่นั่งหน้างานค่ะ';
     else if(t.zone==='1'){
       const sides=[...new Set(g.seats.map(s=>seatSide(t,s)==='L'?'ซ้าย':'ขวา'))], pos=[...new Set(g.seats.map(s=>seatIndex(t,s)))].sort((a,b)=>a-b);
       d=`โต๊ะยาว ${t.label} บนสนามหญ้า · ฝั่ง${sides.join('และ')} (เมื่อหันหน้าเข้าเวที) ตัวที่ ${pos.join(', ')} นับจากฝั่งเวที`;
@@ -587,9 +595,10 @@ function show(g){
     recSvg.setAttribute('viewBox',VIEW[t.zone]);
     g.seats.forEach(s=>{const[x,y]=seatPos(t,s);el('circle',{cx:x,cy:y,r:7,class:'pulse'},meR);el('circle',{cx:x,cy:y,r:8,class:'me-seat'},meR);
       el('text',{x,y:y+0.5,class:'ch-n',style:'fill:#fff;font-size:7px'},meR,s);});
+    if(g.extra){const[x,y]=extraPos(g);el('circle',{cx:x,cy:y,r:7,class:'pulse'},meR);el('circle',{cx:x,cy:y,r:8,class:'me-seat'},meR);el('text',{x,y:y+0.5,class:'ch-n',style:'fill:#fff;font-size:8px'},meR,'+');}
   }
   const note=$('r-note');
-  if(STAFF){const n=[];if(t&&!g.seats.length)n.push('ไม่มีเลขที่นั่งงานเลี้ยงในไฟล์ (เกินจำนวนที่นั่งของโต๊ะ)');if(!t)n.push('มีชื่อเฉพาะในผังพิธี ไม่พบในไฟล์งานเลี้ยง');if(g.alias.length)n.push('ชื่อในผังพิธี: '+g.alias.join(', '));
+  if(STAFF){const n=[];if(g.extra)n.push('เก้าอี้เสริม รอโรงแรมเพิ่มที่นั่ง');if(!t)n.push('มีชื่อเฉพาะในผังพิธี ไม่พบในไฟล์งานเลี้ยง');if(g.alias.length)n.push('ชื่อในผังพิธี: '+g.alias.join(', '));
     note.style.display=n.length?'block':'none';note.textContent='สำหรับทีมงาน · '+n.join(' · ');}else note.style.display='none';
 
   /* mates */
@@ -597,7 +606,7 @@ function show(g){
   const tabM=document.querySelector('[data-tab="mates"]');tabM.style.display=t?'':'none';
   if(t){
     const bySeat={};D.guests.filter(x=>x.table===g.table).forEach(x=>x.seats.forEach(s=>bySeat[s]=x));
-    $('r-count').textContent=`${Object.keys(bySeat).length} / ${t.cap} ที่นั่ง`;
+    const nx=t.extraL.length+t.extraR.length;$('r-count').textContent=`${Object.keys(bySeat).length} / ${t.cap} ที่นั่ง`+(nx?` +${nx} เสริม`:'');
     [['ฝั่งซ้าย · Left',t.left],['ฝั่งขวา · Right',t.right]].forEach(([h,arr])=>{
       const hd=document.createElement('li');hd.className='side-h';hd.textContent=h;mates.appendChild(hd);
       arr.forEach(s=>{const x=bySeat[s],li=document.createElement('li');
@@ -605,7 +614,7 @@ function show(g){
         else{li.className='vacant';li.innerHTML=`<b style="background:#E8DADD">${s}</b><span>ว่าง</span>`;}
         mates.appendChild(li);});
     });
-    D.guests.filter(x=>x.table===g.table&&!x.seats.length).forEach(x=>{const li=document.createElement('li');if(x===g)li.className='me';li.innerHTML=`<b>·</b><span>${esc(x.name)} <small>(ยังไม่มีเลขที่นั่ง)</small></span>`;mates.appendChild(li);});
+    D.guests.filter(x=>x.table===g.table&&!x.seats.length).forEach(x=>{const li=document.createElement('li');li.className=x===g?'me xtra':'xtra';li.innerHTML=`<b>+</b><span>${esc(x.name)} <small>เก้าอี้เสริม · รอโรงแรมอัปเดต</small></span>`;mates.appendChild(li);});
   }
   document.querySelector('[data-tab="cer"]').style.display=g.cer?'':'none';
   setTab(g.cer?'cer':'rec');

diff --git a/qr-card.html b/qr-card.html
@@ -5,41 +5,39 @@
 <meta name="viewport" content="width=device-width, initial-scale=1">
 <meta name="robots" content="noindex">
 <title>QR card · Adriana &amp; Non · Mahassajan</title>
-<link href="https://fonts.googleapis.com/css2?family=Josefin+Sans:wght@300;400&family=Pinyon+Script&family=Prompt:wght@300;400&display=swap" rel="stylesheet">
+<link rel="preconnect" href="https://fonts.googleapis.com">
+<link rel="preconnect" href="https://fonts.gstatic.com" crossorigin>
+<link href="https://fonts.googleapis.com/css2?family=Cormorant+Garamond:ital,wght@1,500&family=Prompt:wght@300;400&display=swap" rel="stylesheet">
 <style>
 *{box-sizing:border-box;margin:0;padding:0}
 body{font-family:'Prompt',sans-serif;font-weight:300;background:#EDE6E7;color:#5C4148;-webkit-print-color-adjust:exact;print-color-adjust:exact}
 @page{size:A5 portrait;margin:0}
 .bar{text-align:center;padding:12px;background:#5C4148;color:#fff;font-size:13px}
-.bar button{font-family:'Prompt';border:0;border-radius:999px;padding:8px 20px;margin-right:8px;cursor:pointer;color:#5C4148}
-.card{width:148mm;height:210mm;margin:16px auto;background:#FBF8F6;display:flex;flex-direction:column;align-items:center;justify-content:space-between;padding:14mm 12mm 0;text-align:center;box-shadow:0 6px 30px rgba(92,65,72,.15);overflow:hidden}
-.card .logo{height:20px}
-.ey{font-family:'Josefin Sans';letter-spacing:.32em;font-size:9.5px;text-transform:uppercase;color:#9C7880;margin-top:9mm}
-h1{font-family:'Pinyon Script',cursive;font-weight:400;font-size:60px;line-height:1.15;color:#5C4148}
-h1 span{color:#A0785A;font-size:.6em;padding:0 .1em}
-.when{font-family:'Josefin Sans';letter-spacing:.24em;font-size:10px;text-transform:uppercase}
-.where{font-size:11px;color:#8A7A7E;margin-top:2px}
-.qr{width:72mm;margin:7mm auto 0;background:#fff;border-radius:18px;padding:3mm;box-shadow:0 8px 24px rgba(156,120,128,.14)}
-.cta{margin-top:6mm;font-size:15px;font-weight:400}
-.cta small{display:block;font-family:'Josefin Sans';letter-spacing:.26em;font-size:9.5px;color:#9C7880;margin-top:3px}
-.foot{width:calc(100% + 24mm);background:#C9A8AF;padding:7mm 0 6mm;margin-top:8mm}
-.foot img{height:22px;margin:0 auto}
-@media print{body{background:#fff}.bar{display:none}.card{margin:0;box-shadow:none}}
+.bar button,.bar a{font-family:'Prompt';border:0;border-radius:999px;padding:8px 18px;margin:0 4px;cursor:pointer;color:#5C4148;background:#fff;text-decoration:none;font-size:13px;display:inline-block}
+.sheet{width:148mm;height:210mm;margin:16px auto;background:#FBF8F6;padding:7mm;box-shadow:0 6px 30px rgba(92,65,72,.15)}
+.card{height:100%;border:1.6px solid #C9A8AF;border-radius:9mm;display:flex;flex-direction:column;align-items:center;padding:10mm 10mm 0;text-align:center}
+.heart{width:18mm}
+.word{width:84mm;margin-top:4mm}
+.tag{width:56mm;margin-top:2.6mm}
+.names{font-family:'Cormorant Garamond',serif;font-style:italic;font-weight:500;font-size:34px;color:#5C4148;margin-top:8mm;letter-spacing:.01em}
+.date{font-size:11.5px;color:#9C7880;letter-spacing:.18em;margin-top:1mm}
+.qr{width:74mm;margin-top:6mm}
+.th{font-size:24px;font-weight:400;margin-top:7mm;color:#5C4148}
+.en{font-size:12.5px;letter-spacing:.22em;color:#9C7880;margin-top:2mm}
+@media print{body{background:#fff}.bar{display:none}.sheet{margin:0;box-shadow:none}}
 </style>
 </head>
 <body>
-<div class="bar"><button onclick="window.print()">🖨 พิมพ์ / บันทึก PDF</button>การ์ด QR ขนาด A5 สำหรับตั้งโต๊ะลงทะเบียน</div>
-<div class="card">
-  <div>
-    <img class="logo" src="img/logo-mauve.png" alt="Mahassajan">
-    <div class="ey">The Wedding Celebration of</div>
-    <h1>Adriana<span>&amp;</span>Non</h1>
-    <div class="when">Sunday · 15 November 2026</div>
-    <div class="where">Thames Valley Khao Yai</div>
-    <img class="qr" src="img/qr-site.png" alt="QR to the guest page">
-    <div class="cta">สแกนเพื่อค้นหาที่นั่งของคุณ<small>SCAN TO FIND YOUR SEAT</small></div>
-  </div>
-  <div class="foot"><img src="img/logo-white.png" alt="Mahassajan"></div>
-</div>
+<div class="bar"><button onclick="window.print()">🖨 พิมพ์ / บันทึก PDF (A5)</button><a href="img/qr-card.png" download="AdrianaNon-QR-card.png">ดาวน์โหลดเป็นรูป PNG</a></div>
+<div class="sheet"><div class="card">
+  <img class="heart" src="img/heart-mauve.png" alt="">
+  <img class="word" src="img/wordmark-mauve.png" alt="MAHASSAJAN">
+  <img class="tag" src="img/tagline-mauve.png" alt="WEDDING PLANNER">
+  <div class="names">Adriana &amp; Non</div>
+  <div class="date">15 · 11 · 2026</div>
+  <img class="qr" src="img/qr-site.png" alt="QR to the guest page">
+  <div class="th">สแกนเพื่อค้นหาที่นั่งของคุณ</div>
+  <div class="en">SCAN TO FIND YOUR SEAT</div>
+</div></div>
 </body>
 </html>

diff --git a/plans.js b/plans.js
@@ -25,8 +25,17 @@ D.tables.forEach(t => {
   t.pitch = t.zone === '1' ? PITCH_Z1 : PITCH_Z;
   t.rows = Math.max(t.left.length, t.right.length);
   t.y2 = t.y1 + t.rows * t.pitch;
+  // extra chairs the hotel will add (guest listed in the file without a seat number)
+  t.extraL = D.guests.filter(g => g.table === t.id && g.extra === 'L');
+  t.extraR = D.guests.filter(g => g.table === t.id && g.extra === 'R');
+  t.yEnd = t.y1 + Math.max(t.left.length + t.extraL.length, t.right.length + t.extraR.length) * t.pitch;
   TBY[t.id] = t;
 });
+function extraPos(g){
+  const t = TBY[g.table], L = g.extra === 'L', arr = L ? t.extraL : t.extraR;
+  const i = (L ? t.left.length : t.right.length) + arr.indexOf(g);
+  return [t.x + (L ? -21 : 21), t.y1 + t.pitch/2 + i * t.pitch];
+}
 function seatPos(t, s){
   let i = t.left.indexOf(s), side = -1;
   if (i < 0){ i = t.right.indexOf(s); side = 1; }
@@ -37,7 +46,7 @@ function seatIndex(t, s){ const i = t.left.indexOf(s); return (i >= 0 ? i : t.ri
 function seatList(t){ return [...t.left, ...t.right]; }
 
 /* zone crops for the guest card */
-const VIEW = { '1':'0 0 700 880', '2':'355 888 340 285', '3':'25 888 340 285', all:'0 0 700 1200' };
+const VIEW = { '1':'0 0 700 880', '2':'355 897 340 276', '3':'25 888 340 285', all:'0 0 700 1200' };
 
 function lawn(svg){
   el('path', {d:'M412 0 L 6 880', class:'water'}, svg);
@@ -50,7 +59,7 @@ function buildVenue(opts = {}){
   // features across the water (from the planner's site plan)
   const feat = (x, y, w, label, th, cls='feat') => {
     el('rect', {x, y, width:w, height:34, rx:8, class:cls}, svg);
-    el('text', {x:x+w/2, y:y+15, class:'f-en'}, svg, label);
+    el('text', {x:x+w/2, y:y+(th?15:21), class:'f-en'}, svg, label);
     if (th) el('text', {x:x+w/2, y:y+27, class:'f-th'}, svg, th);
   };
   feat(70, 70, 128, 'Reception', 'ลงทะเบียน', 'feat entry');
@@ -58,6 +67,7 @@ function buildVenue(opts = {}){
   feat(150, 268, 92, 'Singer', 'นักร้อง');
   feat(28, 420, 100, 'Gallery', 'แกลเลอรี');
   el('text', {x:150, y:620, class:'water-lbl'}, svg, 'สระน้ำ & สะพานหิน');
+  feat(588, 862, 92, 'Bouquet');
   // stage
   el('rect', {x:480, y:42, width:120, height:56, rx:8, class:'stage'}, svg);
   el('text', {x:540, y:66, class:'st-en'}, svg, 'STAGE');
@@ -84,12 +94,18 @@ function drawTables(svg, opts){
   D.tables.forEach(t => {
     const g = el('g', {class:'tg', 'data-t':t.id}, svg);
     el('rect', {x:t.x-9, y:t.y1, width:18, height:t.y2-t.y1, rx:3, class:'tb'}, g);
-    el('rect', {x:t.x-33, y:t.y1-10, width:66, height:t.y2-t.y1+20, rx:12, class:'ring', style:'display:none'}, g);
+    el('rect', {x:t.x-33, y:t.y1-10, width:66, height:t.yEnd-t.y1+20, rx:12, class:'ring', style:'display:none'}, g);
+    for (const x of [...t.extraL, ...t.extraR]){
+      const [cx, cy] = extraPos(x);
+      el('circle', {cx, cy, r:7, class:'ch extra'}, g);
+      el('text', {x:cx, y:cy+0.5, class:'ch-n', style:'fill:#A8552F'}, g, '+');
+    }
+    const yl = t.yEnd;
     if (t.zone === '1'){
-      el('text', {x:t.x, y:t.y2+22, class:'tb-name'}, g, t.label);
-      el('text', {x:t.x, y:t.y2+37, class:'tb-sub'}, g, 'ที่ ' + Math.min(...seatList(t)) + '–' + Math.max(...seatList(t)));
+      el('text', {x:t.x, y:yl+22, class:'tb-name'}, g, t.label);
+      el('text', {x:t.x, y:yl+37, class:'tb-sub'}, g, 'ที่ ' + Math.min(...seatList(t)) + '–' + Math.max(...seatList(t)));
     } else {
-      el('text', {x:t.x, y:t.y2+20, class:'tb-sub'}, g, Math.min(...seatList(t)) + '–' + Math.max(...seatList(t)));
+      el('text', {x:t.x, y:yl+20, class:'tb-sub'}, g, Math.min(...seatList(t)) + '–' + Math.max(...seatList(t)));
     }
     for (const s of seatList(t)){
       const [x, y] = seatPos(t, s);
@@ -136,5 +152,5 @@ function buildCeremony(){
   return svg;
 }
 
-window.PLAN = { D, TBY, el, buildVenue, buildCeremony, seatPos, seatSide, seatIndex, seatList, cerPos, cerInfo, CER_CODES, VIEW };
+window.PLAN = { D, TBY, el, extraPos, buildVenue, buildCeremony, seatPos, seatSide, seatIndex, seatList, cerPos, cerInfo, CER_CODES, VIEW };
 })();

diff --git a/plans.css b/plans.css
@@ -33,3 +33,5 @@
 .pulse{fill:none;stroke:var(--accent);stroke-width:1.6;animation:pulse 1.6s ease-out infinite;transform-box:fill-box;transform-origin:center}
 @keyframes pulse{0%{opacity:.9;transform:scale(1)}100%{opacity:0;transform:scale(3.2)}}
 
+.ch.extra{fill:#FBEDE4;stroke:#C8734A;stroke-width:1.2;stroke-dasharray:2.5 2}
+.tg.hl .ch.extra{fill:#F6D9C6;stroke:#A8552F}

diff --git a/README.md b/README.md
@@ -7,3 +7,4 @@ Made by Mahassajan Wedding Planner.
 - Staff mode (export button): add `#staff` to the link
 - Printable seating plan + guest list: `print.html` (Print → Save as PDF)
 - Guest data: `data.js` (built from the couple's Excel files)
+- QR card (A5 / PNG): `qr-card.html`, `img/qr-card.png`
